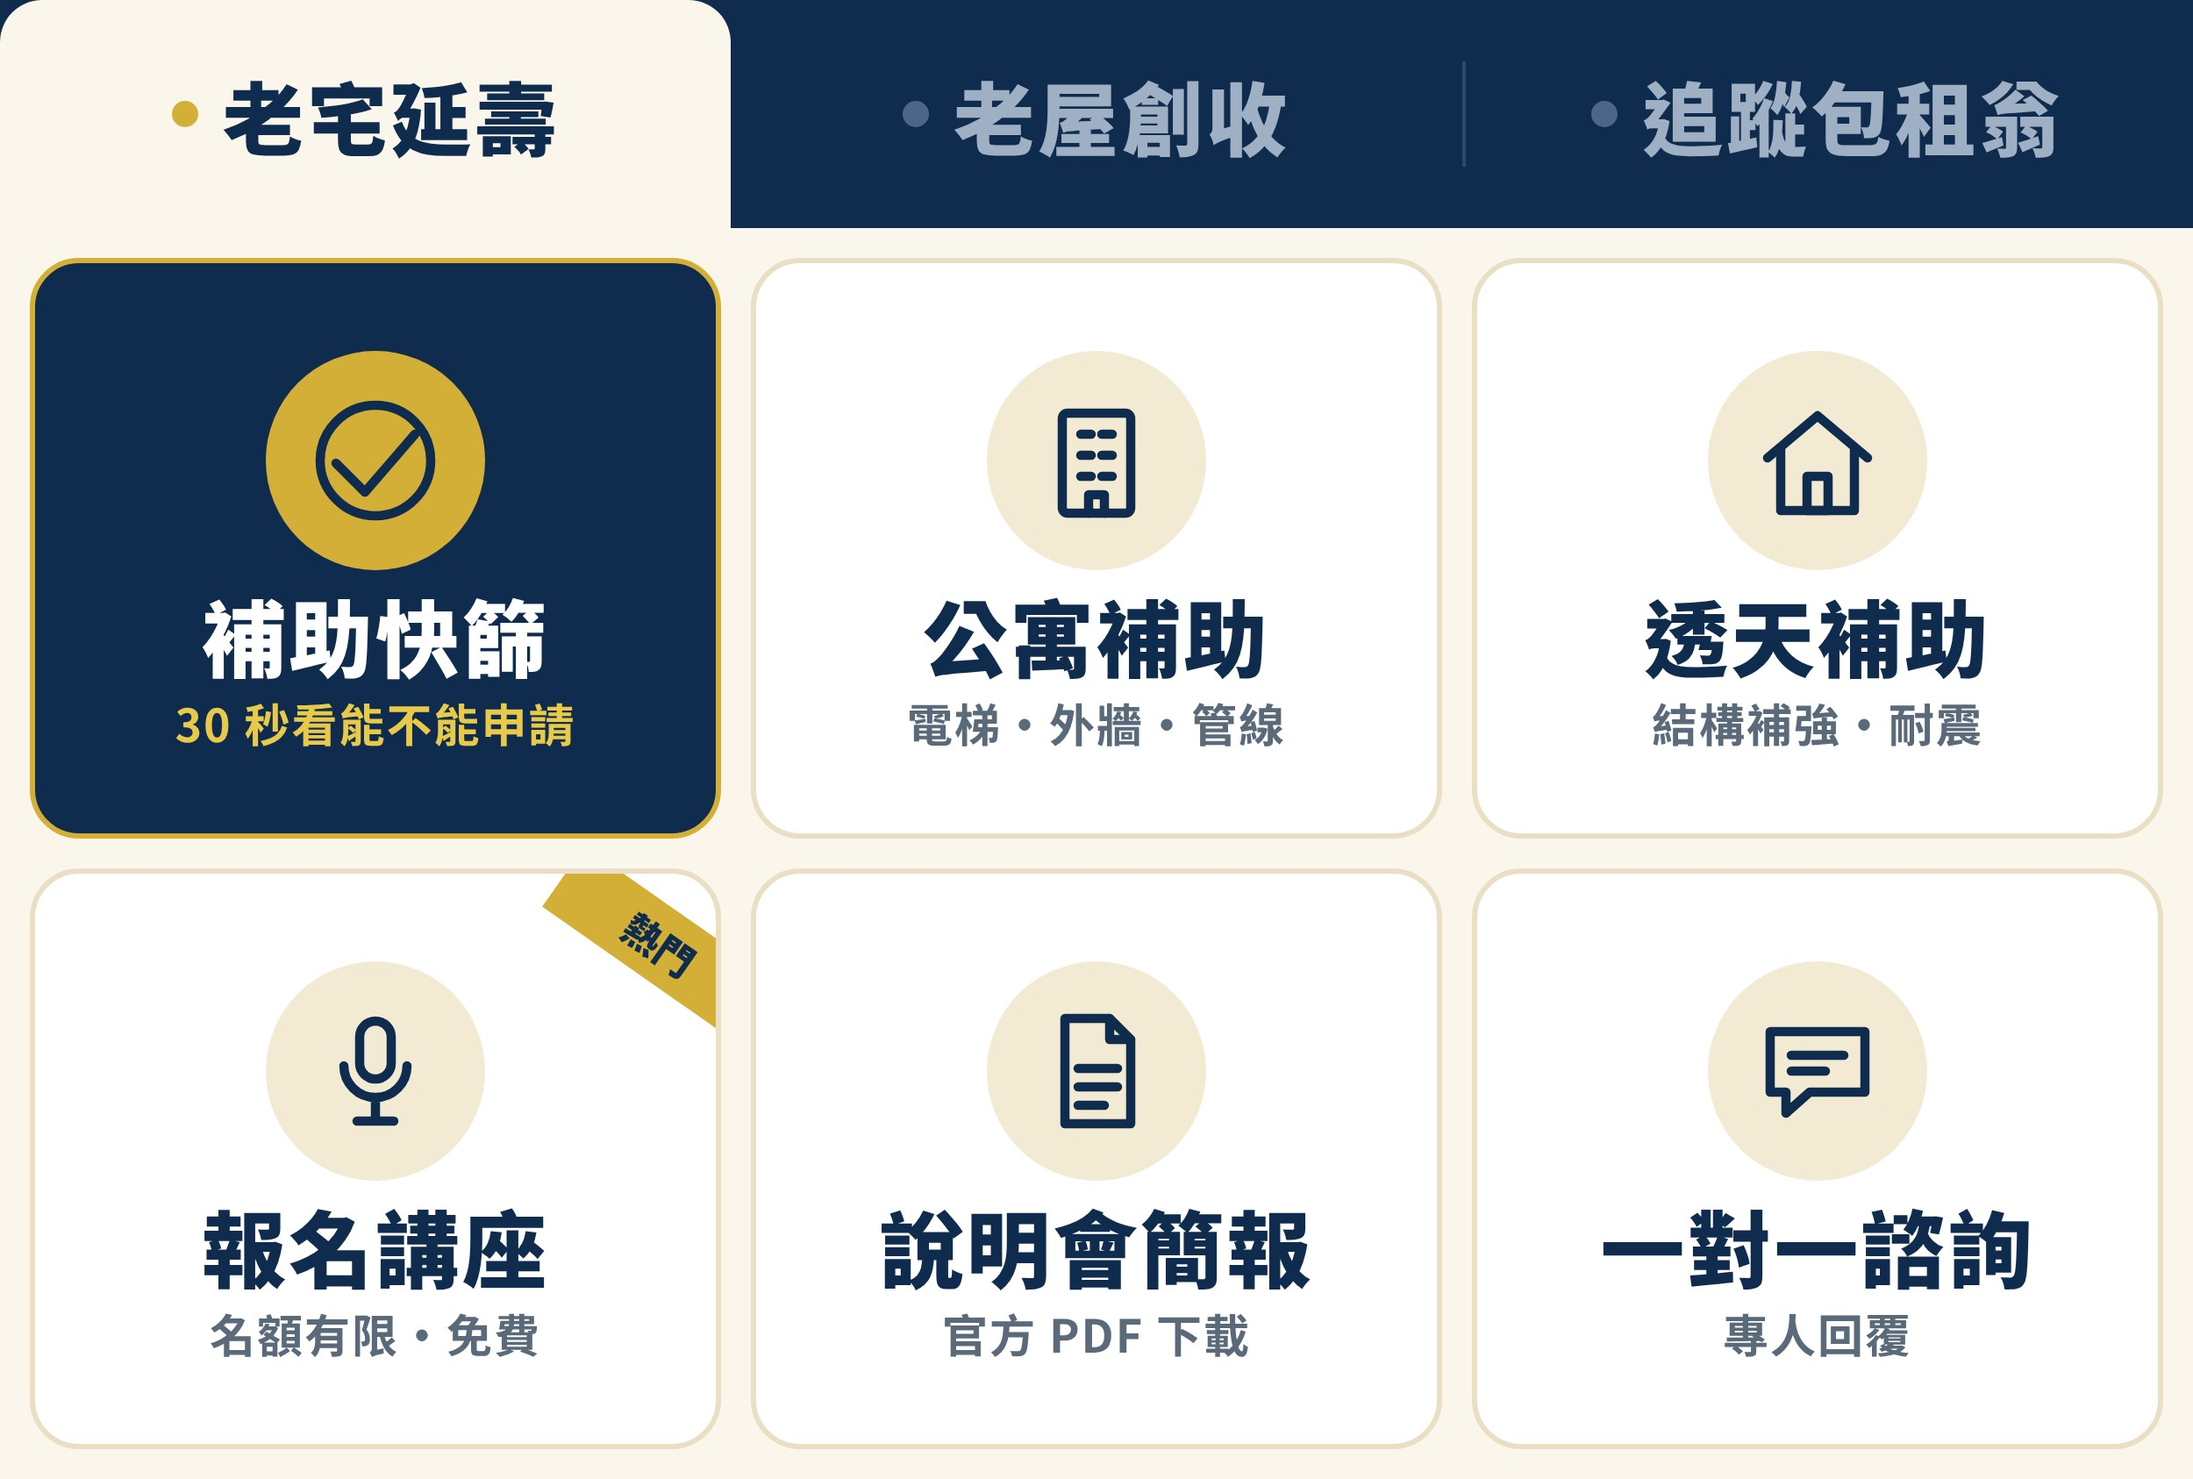
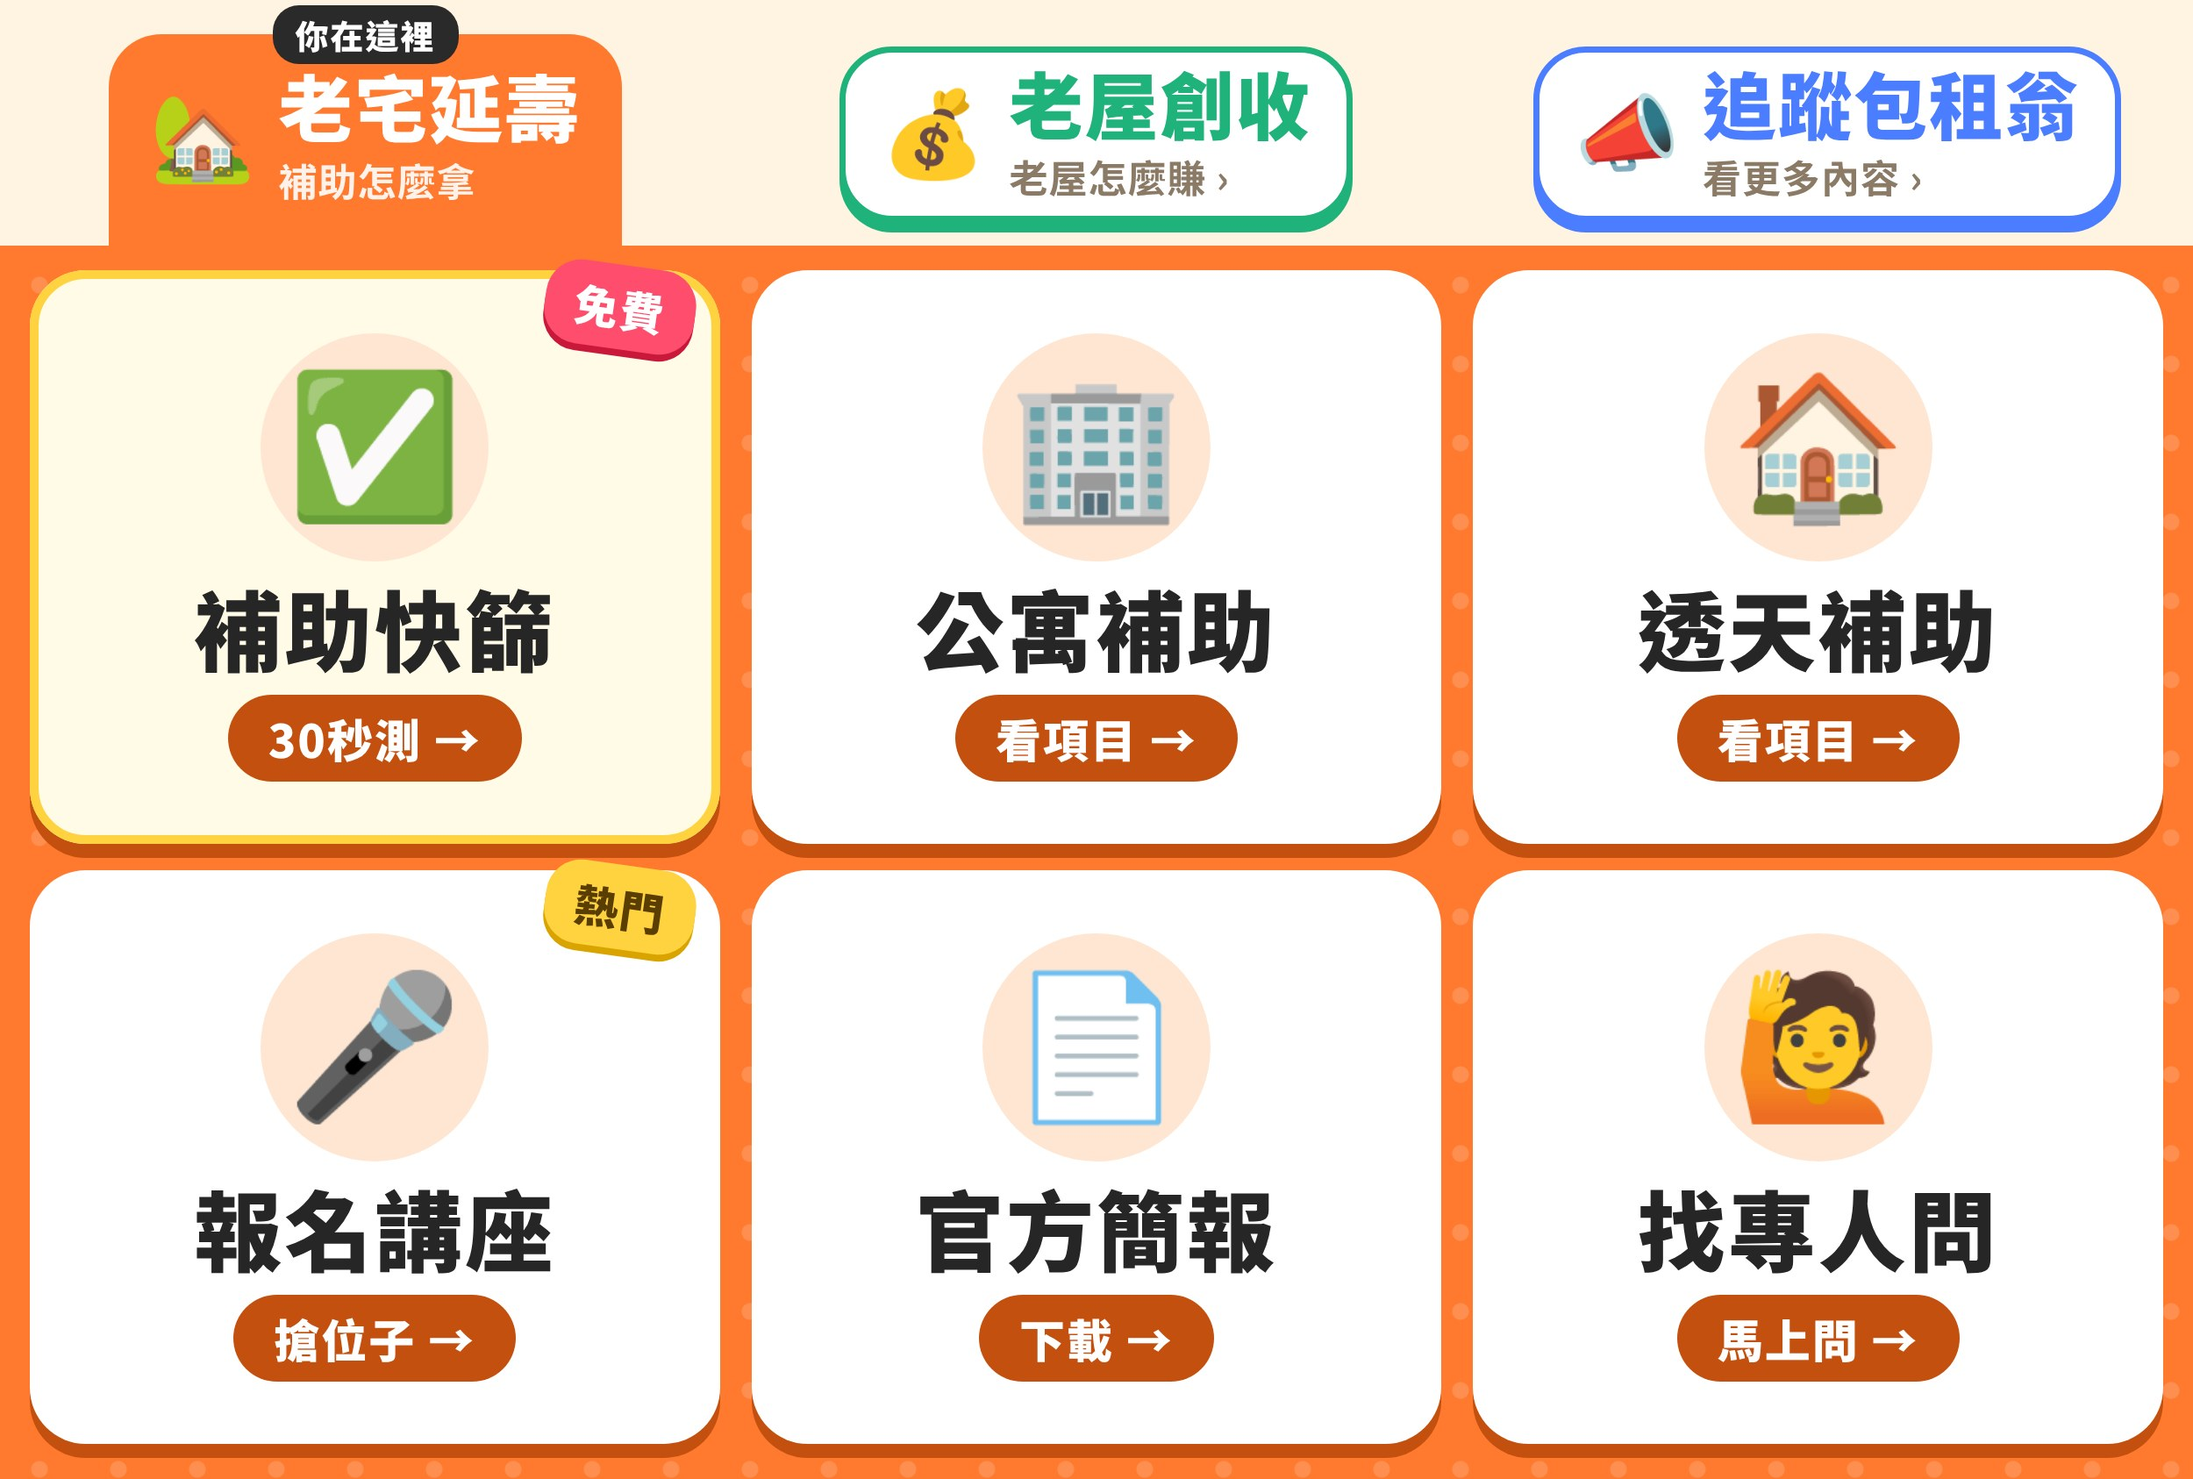
圖文選單改活潑版：三分頁三色、彩色圖示、每顆按鈕加動作提示
Claude-Session: https://claude.ai/code/session_019eugoX1H4dYyhyKS7AuEiA

diff --git a/line-richmenu/design.html b/line-richmenu/design.html
@@ -5,111 +5,112 @@
 <title>LINE 圖文選單設計稿</title>
 <link href="https://fonts.googleapis.com/css2?family=Noto+Sans+TC:wght@500;700;900&display=swap" rel="stylesheet">
 <!--
-  LINE 圖文選單（分頁版）設計稿
-  尺寸：2500 x 1686（LINE 大型選單標準）
-  上方分頁列 0~260px，下方 2 列 x 3 欄按鈕
-  用 render.js 開 design.html?tab=1 / 2 / 3 各截一張
-  ※ 改版面時，按鈕座標要跟 richmenu.gs 裡的 AREAS 一致
+  LINE 圖文選單（分頁版・活潑款）
+  尺寸：2500 x 1686
+  上方分頁列 0~280px（三等分：0 / 833 / 1666）
+  下方按鈕 2 列 x 3 欄：y 280~983、983~1686
+  ※ 座標要跟 richmenu.gs 一致；改完執行 node render.js 重出圖
 -->
 <style>
-  :root{
-    --navy:#0f2c4e; --navy2:#1a3d6b; --gold:#d4af37; --gold2:#e8c94a;
-    --cream:#faf6ec; --ink:#1d2a38; --muted:#5a6a7a;
-  }
   *{box-sizing:border-box;margin:0;padding:0}
-  html,body{width:2500px;height:1686px;overflow:hidden;background:var(--cream);
-    font-family:"Noto Sans TC","WenQuanYi Zen Hei",sans-serif;color:var(--ink)}
-  /* 分頁列 */
-  .tabs{position:absolute;left:0;top:0;width:2500px;height:260px;display:flex;background:var(--navy)}
-  .tab{flex:1;display:flex;align-items:center;justify-content:center;gap:28px;
-    font-size:92px;font-weight:900;color:#9fb0c4;letter-spacing:4px;position:relative}
-  .tab + .tab::before{content:"";position:absolute;left:0;top:70px;bottom:70px;width:4px;background:#2b4a70}
-  .tab.on{background:var(--cream);color:var(--navy);border-radius:48px 48px 0 0}
-  .tab.on::before{display:none}
-  .tab.on + .tab::before{display:none}
-  .tab .dot{width:30px;height:30px;border-radius:50%;background:var(--gold)}
-  .tab:not(.on) .dot{background:#4b6688}
-  /* 按鈕格 */
-  .grid{position:absolute;left:0;top:260px;width:2500px;height:1426px;padding:34px;
-    display:grid;grid-template-columns:repeat(3,1fr);grid-template-rows:repeat(2,1fr);gap:34px}
-  .cell{background:#fff;border:6px solid #eadfc4;border-radius:56px;display:flex;flex-direction:column;
-    align-items:center;justify-content:center;gap:26px;position:relative;overflow:hidden}
-  .cell.hot{background:var(--navy);border-color:var(--gold)}
-  .cell.hot .t{color:#fff} .cell.hot .s{color:var(--gold2)}
-  .cell.hot .ic{background:var(--gold);}
-  .cell.hot .ic svg{stroke:var(--navy)}
-  .ic{width:250px;height:250px;border-radius:50%;background:#f3ead3;display:flex;align-items:center;justify-content:center}
-  .ic svg{width:150px;height:150px;fill:none;stroke:var(--navy);stroke-width:7;stroke-linecap:round;stroke-linejoin:round}
-  .t{font-size:96px;font-weight:900;color:var(--navy);letter-spacing:3px;line-height:1}
-  .s{font-size:52px;font-weight:700;color:var(--muted);letter-spacing:2px;line-height:1}
-  .badge{position:absolute;top:38px;right:-70px;transform:rotate(35deg);background:var(--gold);
-    color:var(--navy);font-weight:900;font-size:44px;padding:10px 90px}
-  .logo{position:absolute;left:44px;top:300px;display:none}
+  html,body{width:2500px;height:1686px;overflow:hidden;
+    font-family:"Noto Sans TC","Noto Color Emoji",sans-serif;color:#2a2a2a;background:#fff}
+  .emo{font-family:"Noto Color Emoji";line-height:1}
+
+  /* ===== 分頁列 ===== */
+  .tabs{position:absolute;left:0;top:0;width:2500px;height:280px;display:flex;background:#fff4e2}
+  .tab{position:relative;width:833px;height:280px;display:flex;align-items:center;justify-content:center;gap:30px;padding-top:26px}
+  .tab:last-child{width:834px}
+  .tab .box{display:flex;align-items:center;gap:26px;padding:0 40px;height:200px;border-radius:60px;
+    background:#fff;border:7px solid var(--c);box-shadow:0 12px 0 var(--c)}
+  .tab .emo{font-size:96px}
+  .tab .nm{font-size:84px;font-weight:900;color:var(--c);letter-spacing:2px;line-height:1.05}
+  .tab .sub{font-size:44px;font-weight:700;color:#8a7a66;margin-top:8px;letter-spacing:1px}
+  /* 目前所在分頁：實心 + 往下接到內容區 */
+  .tab.on .box{background:var(--c);box-shadow:none;height:254px;margin-top:26px;border-radius:60px 60px 0 0;padding-bottom:26px}
+  .tab.on .nm{color:#fff}
+  .tab.on .sub{color:rgba(255,255,255,.9)}
+  .tab.on .box{border-bottom:none}
+  .here{position:absolute;top:6px;left:50%;transform:translateX(-50%);background:#2a2a2a;color:#fff;
+    font-size:38px;font-weight:900;padding:6px 26px;border-radius:30px;letter-spacing:2px;z-index:3;white-space:nowrap}
+
+  /* ===== 內容區 ===== */
+  .panel{position:absolute;left:0;top:280px;width:2500px;height:1406px;background:radial-gradient(rgba(255,255,255,.16) 9px,transparent 10px) 0 0/90px 90px,var(--c);
+    padding:28px 34px 40px;display:grid;grid-template-columns:repeat(3,1fr);grid-template-rows:repeat(2,1fr);gap:30px 36px}
+  .dots{position:absolute;inset:280px 0 0 0;opacity:.13;
+    background-image:radial-gradient(#fff 9px,transparent 10px);background-size:90px 90px;pointer-events:none}
+  .card{position:relative;background:#fff;border-radius:64px;box-shadow:0 16px 0 var(--dark);
+    display:flex;flex-direction:column;align-items:center;justify-content:center;gap:12px;overflow:visible}
+  .card .ic{width:260px;height:260px;border-radius:50%;background:var(--soft);display:flex;align-items:center;justify-content:center}
+  .card .ic .emo{font-size:160px}
+  .card .t{font-size:100px;font-weight:900;color:#262626;letter-spacing:3px;line-height:1.1;margin-top:8px}
+  .card .go{margin-top:10px;font-size:52px;font-weight:900;color:#fff;background:var(--dark);
+    padding:12px 46px;border-radius:50px;letter-spacing:2px}
+  .card.hot{background:#fffbe6;outline:10px solid #ffd23f;outline-offset:-10px}
+  .tag{position:absolute;top:-6px;right:28px;background:#ff4d6d;color:#fff;font-size:50px;font-weight:900;
+    padding:12px 34px;border-radius:40px;transform:rotate(8deg);box-shadow:0 8px 0 #c9183a;letter-spacing:2px}
+  .tag.y{background:#ffd23f;color:#5a3d00;box-shadow:0 8px 0 #d9a400}
 </style>
 </head>
 <body>
 <div class="tabs" id="tabs"></div>
-<div class="grid" id="grid"></div>
+<div class="panel" id="panel"></div>
 
 <script>
-// ===== 簡易線條圖示（不依賴外部圖示庫）=====
-const I = {
-  check:'<path d="M20 52 L42 74 L80 30"/><circle cx="50" cy="50" r="42"/>',
-  building:'<rect x="24" y="14" width="52" height="76" rx="4"/><path d="M38 30h8M54 30h8M38 46h8M54 46h8M38 62h8M54 62h8M44 90V76h12v14"/>',
-  house:'<path d="M12 48 L50 16 L88 48"/><path d="M22 40v48h56V40"/><rect x="42" y="62" width="16" height="26"/>',
-  mic:'<rect x="38" y="12" width="24" height="44" rx="12"/><path d="M26 46a24 24 0 0 0 48 0M50 70v16M36 88h28"/>',
-  doc:'<path d="M26 10h34l16 16v64H26z"/><path d="M60 10v16h16M36 48h30M36 62h30M36 76h20"/>',
-  chat:'<path d="M14 20h72v46H44L26 82V66H14z"/><path d="M30 38h40M30 50h26"/>',
-  hammer:'<path d="M18 82 L56 44"/><path d="M48 22 L70 14 L86 30 L78 52 L48 22z"/>',
-  key:'<circle cx="32" cy="50" r="18"/><path d="M50 50h38M76 50v14M66 50v10"/>',
-  flask:'<path d="M40 12v28L18 82a6 6 0 0 0 5 8h54a6 6 0 0 0 5-8L60 40V12M34 12h32M28 66h44"/>',
-  pin:'<path d="M50 90s-30-30-30-52a30 30 0 0 1 60 0c0 22-30 52-30 52z"/><circle cx="50" cy="38" r="11"/>',
-  calc:'<rect x="22" y="10" width="56" height="80" rx="8"/><rect x="32" y="20" width="36" height="16"/><path d="M34 52h4M50 52h4M66 52h-4M34 66h4M50 66h4M34 80h4M50 80h4M64 64v16"/>',
-  q:'<circle cx="50" cy="50" r="40"/><path d="M38 38a12 12 0 1 1 18 10c-4 3-6 5-6 10M50 70v2"/>',
-  at:'<circle cx="50" cy="50" r="14"/><path d="M64 50v6a10 10 0 0 0 20 0v-6a34 34 0 1 0-14 28"/>',
-  fb:'<rect x="14" y="14" width="72" height="72" rx="16"/><path d="M58 86V54h12l2-12H58v-8c0-4 2-6 6-6h8V18h-10c-12 0-18 7-18 18v6H34v12h10v32"/>',
-  yt:'<rect x="10" y="22" width="80" height="56" rx="16"/><path d="M42 36 L64 50 L42 64z"/>',
-  ig:'<rect x="14" y="14" width="72" height="72" rx="20"/><circle cx="50" cy="50" r="17"/><path d="M70 28v1"/>',
-  globe:'<circle cx="50" cy="50" r="40"/><path d="M10 50h80M50 10c-14 14-14 66 0 80M50 10c14 14 14 66 0 80"/>',
-  share:'<circle cx="72" cy="24" r="12"/><circle cx="28" cy="50" r="12"/><circle cx="72" cy="76" r="12"/><path d="M39 44l22-14M39 56l22 14"/>'
-};
-const svg = k => `<svg viewBox="0 0 100 100">${I[k]}</svg>`;
-
-// ===== 三個分頁的內容（要跟 richmenu.gs 的 MENUS 順序一致）=====
-const TABS = ['老宅延壽','老屋創收','追蹤包租翁'];
-const PAGES = {
-  1:[
-    {i:'check',   t:'補助快篩',   s:'30 秒看能不能申請', hot:true},
-    {i:'building',t:'公寓補助',   s:'電梯・外牆・管線'},
-    {i:'house',   t:'透天補助',   s:'結構補強・耐震'},
-    {i:'mic',     t:'報名講座',   s:'名額有限・免費', badge:'熱門'},
-    {i:'doc',     t:'說明會簡報', s:'官方 PDF 下載'},
-    {i:'chat',    t:'一對一諮詢', s:'專人回覆'}
+// ===== 三個分頁（順序要跟 richmenu.gs 一致）=====
+const TABS = [
+  {emo:'🏡', nm:'老宅延壽',   sub:'補助怎麼拿', c:'#ff7a2f', dark:'#c4500f', soft:'#ffe6d3'},
+  {emo:'💰', nm:'老屋創收',   sub:'老屋怎麼賺', c:'#1fb27a', dark:'#0c7d52', soft:'#d6f5e8'},
+  {emo:'📣', nm:'追蹤包租翁', sub:'看更多內容', c:'#4a7dff', dark:'#2450c4', soft:'#dde7ff'},
+];
+// 每頁 6 顆：左上→右上→左下→右下；go = 按了會怎樣
+const PAGES = [
+  [
+    {e:'✅', t:'補助快篩',   go:'30秒測 →', hot:true, tag:'免費'},
+    {e:'🏢', t:'公寓補助',   go:'看項目 →'},
+    {e:'🏠', t:'透天補助',   go:'看項目 →'},
+    {e:'🎤', t:'報名講座',   go:'搶位子 →', tag:'熱門', y:true},
+    {e:'📄', t:'官方簡報',   go:'下載 →'},
+    {e:'🙋', t:'找專人問',   go:'馬上問 →'},
   ],
-  2:[
-    {i:'hammer',  t:'翻新實例',   s:'Before / After', hot:true},
-    {i:'key',     t:'出租規劃',   s:'老屋變現金流'},
-    {i:'flask',   t:'甲醛檢測',   s:'入住前安心', badge:'NEW'},
-    {i:'pin',     t:'預約勘查',   s:'到府評估'},
-    {i:'calc',    t:'投報試算',   s:'翻新值不值得'},
-    {i:'q',       t:'常見問題',   s:'費用・工期・流程'}
+  [
+    {e:'🔨', t:'翻新實例',   go:'看前後 →', hot:true},
+    {e:'🔑', t:'出租規劃',   go:'看做法 →'},
+    {e:'🧪', t:'甲醛檢測',   go:'預約 →', tag:'NEW'},
+    {e:'📍', t:'到府勘查',   go:'預約 →'},
+    {e:'🧮', t:'投報試算',   go:'算算看 →'},
+    {e:'💡', t:'常見問題',   go:'快速看 →'},
   ],
-  3:[
-    {i:'at',      t:'Threads',    s:'每日房產乾貨', hot:true},
-    {i:'fb',      t:'Facebook',   s:'粉絲專頁'},
-    {i:'yt',      t:'YouTube',    s:'影片專區'},
-    {i:'ig',      t:'Instagram',  s:'翻新日常'},
-    {i:'globe',   t:'官方網站',   s:'補助一次看懂'},
-    {i:'share',   t:'分享好友',   s:'推薦包租翁'}
-  ]
-};
+  [
+    {e:'🧵', t:'Threads',    go:'每日乾貨 →', hot:true},
+    {e:'👍', t:'Facebook',   go:'按讚 →'},
+    {e:'▶', t:'YouTube',    go:'看影片 →'},
+    {e:'📸', t:'Instagram',  go:'追蹤 →'},
+    {e:'🌐', t:'官方網站',   go:'逛逛 →'},
+    {e:'🎁', t:'分享好友',   go:'推薦 →', tag:'揪團', y:true},
+  ],
+];
 
-const tab = Number(new URLSearchParams(location.search).get('tab') || 1);
-document.getElementById('tabs').innerHTML = TABS.map((n,k)=>
-  `<div class="tab ${k+1===tab?'on':''}"><span class="dot"></span>${n}</div>`).join('');
-document.getElementById('grid').innerHTML = PAGES[tab].map(c=>
-  `<div class="cell ${c.hot?'hot':''}">${c.badge?`<div class="badge">${c.badge}</div>`:''}
-   <div class="ic">${svg(c.i)}</div><div class="t">${c.t}</div><div class="s">${c.s}</div></div>`).join('');
+const n = Number(new URLSearchParams(location.search).get('tab') || 1) - 1;
+const cur = TABS[n];
+document.documentElement.style.setProperty('--c', cur.c);
+document.documentElement.style.setProperty('--dark', cur.dark);
+document.documentElement.style.setProperty('--soft', cur.soft);
+
+document.getElementById('tabs').innerHTML = TABS.map((t,i)=>`
+  <div class="tab ${i===n?'on':''}" style="--c:${t.c}">
+    ${i===n?'<div class="here">你在這裡</div>':''}
+    <div class="box"><span class="emo">${t.emo}</span>
+      <div><div class="nm">${t.nm}</div><div class="sub">${i===n?t.sub:t.sub+' ›'}</div></div></div>
+  </div>`).join('');
+
+document.getElementById('panel').innerHTML = PAGES[n].map(c=>`
+  <div class="card ${c.hot?'hot':''}">
+    ${c.tag?`<div class="tag ${c.y?'y':''}">${c.tag}</div>`:''}
+    <div class="ic"><span class="emo">${c.e}</span></div>
+    <div class="t">${c.t}</div>
+    <div class="go">${c.go}</div>
+  </div>`).join('');
 </script>
 </body>
 </html>

diff --git a/line-richmenu/README.md b/line-richmenu/README.md
@@ -1,11 +1,12 @@
 # LINE 官方帳號｜分頁式圖文選單（包租翁 MAX HOUSE）
 
-選單上方三個分頁，點了就切換，不用另外架伺服器：
+選單上方三個分頁（橘／綠／藍），點了就切換，不用另外架伺服器。
+每顆按鈕都有「按了會怎樣」的小標籤（例如「30秒測 →」「搶位子 →」），一看就懂：
 
 | 分頁 | 6 顆按鈕 |
 |---|---|
-| 老宅延壽 | 補助快篩、公寓補助、透天補助、報名講座、說明會簡報、一對一諮詢 |
-| 老屋創收 | 翻新實例、出租規劃、甲醛檢測、預約勘查、投報試算、常見問題 |
+| 老宅延壽 | 補助快篩、公寓補助、透天補助、報名講座、官方簡報、找專人問 |
+| 老屋創收 | 翻新實例、出租規劃、甲醛檢測、到府勘查、投報試算、常見問題 |
 | 追蹤包租翁 | Threads、Facebook、YouTube、Instagram、官方網站、分享好友 |
 
 ![preview](preview.jpg)
@@ -32,15 +33,15 @@
 
 ## 「傳文字」按鈕要搭配自動回應
 
-補助快篩、一對一諮詢、甲醛檢測等按鈕，按下去會幫使用者送出一句話，例如「我想預約一對一諮詢」。
+補助快篩、找專人問、甲醛檢測等按鈕，按下去會幫使用者送出一句話，例如「我想預約一對一諮詢」。
 到 OA Manager → **自動回應訊息** 用同樣的關鍵字設定回覆（或回覆表單連結），就形成完整流程。
 
 | 按鈕 | 送出文字 |
 |---|---|
 | 補助快篩 | 我想做老宅延壽補助快篩 |
-| 一對一諮詢 | 我想預約一對一諮詢 |
+| 找專人問 | 我想預約一對一諮詢 |
 | 甲醛檢測 | 我想預約甲醛檢測 |
-| 預約勘查 | 我想預約到府勘查 |
+| 到府勘查 | 我想預約到府勘查 |
 | 投報試算 | 我想做翻新投報試算 |
 | 常見問題 | 常見問題 |
 
